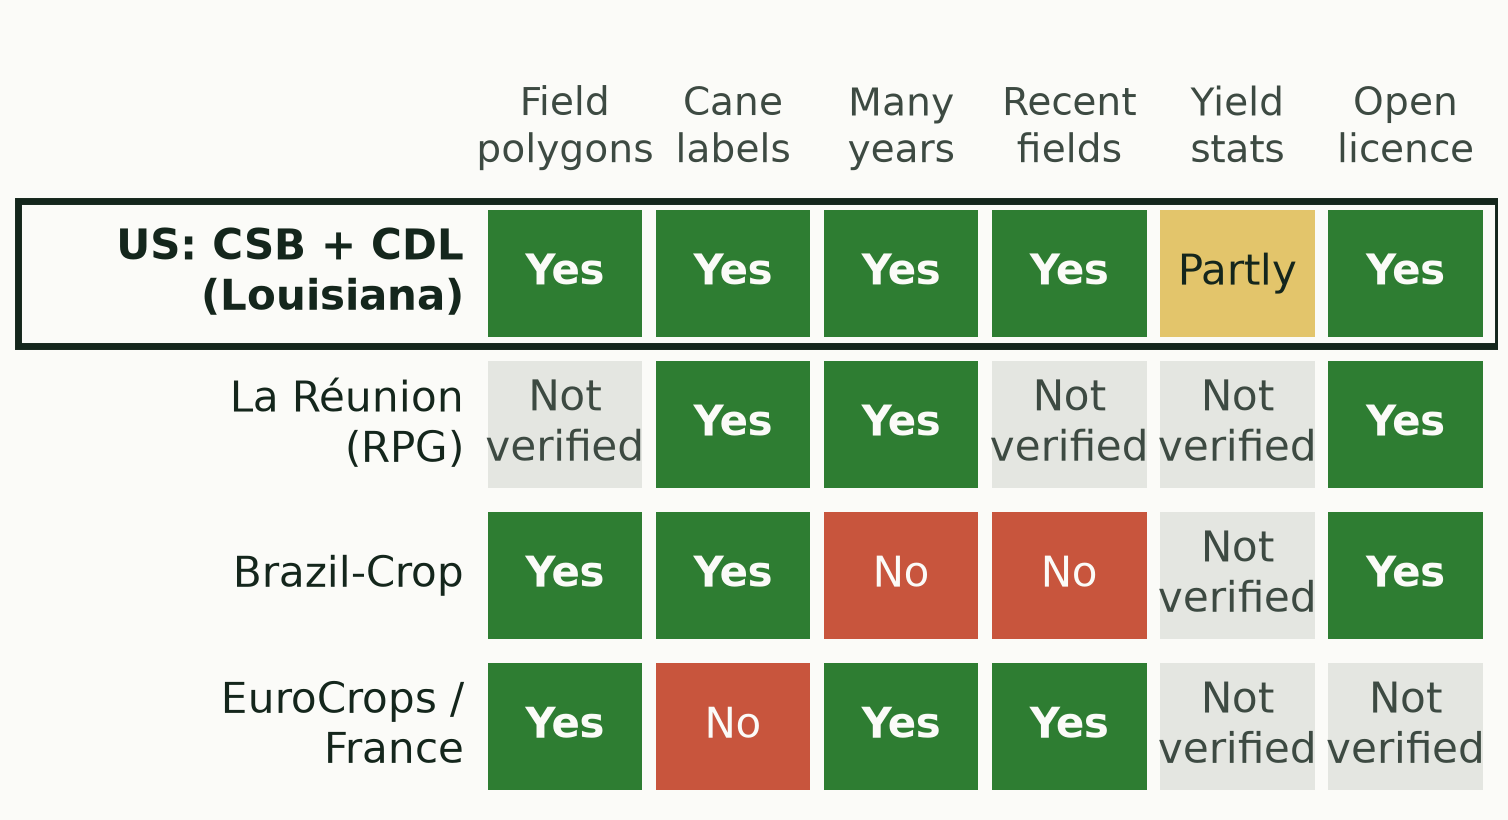
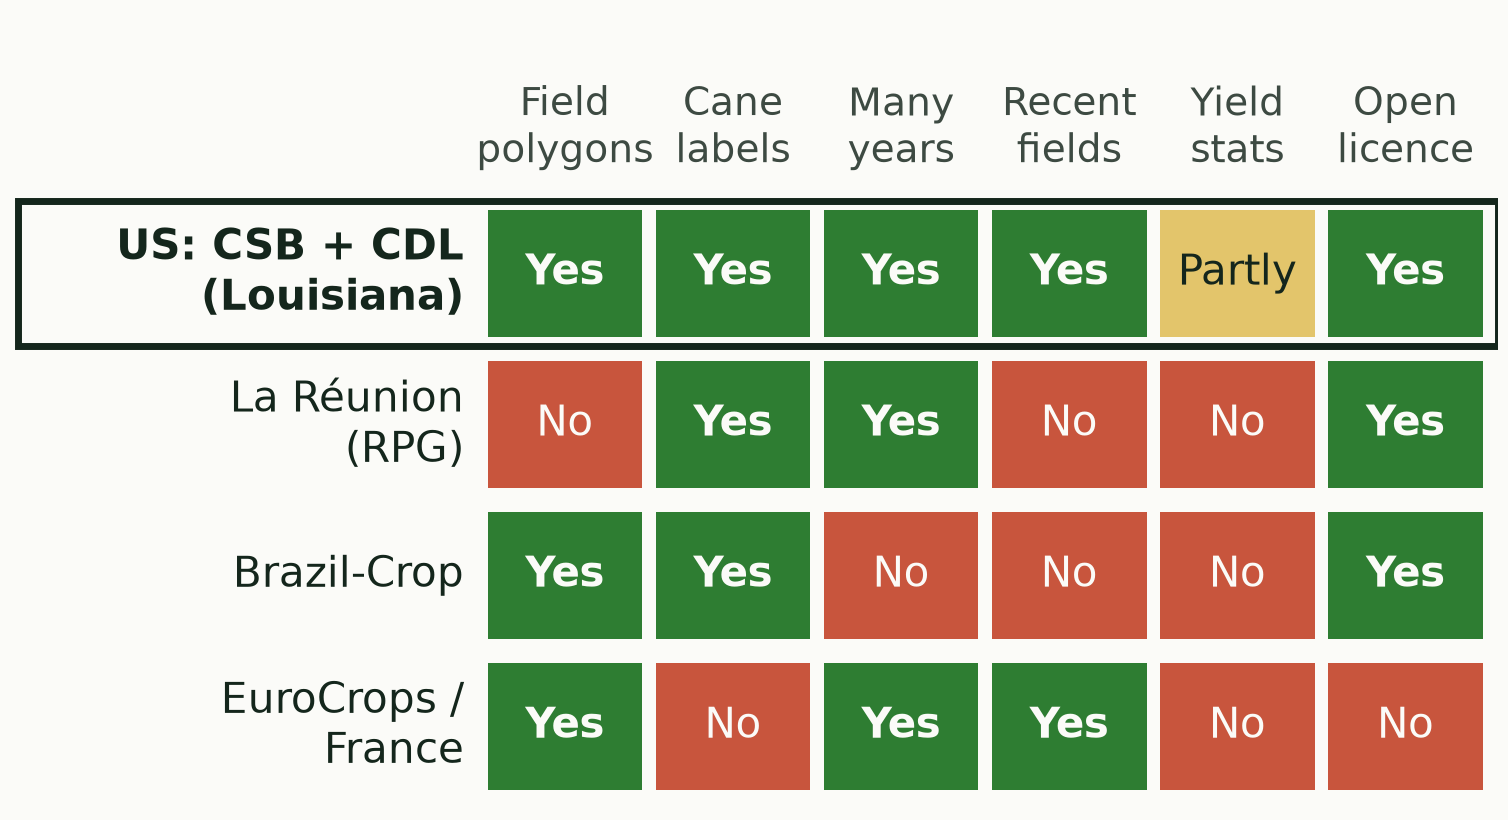
docs(presentation): show unconfirmed matrix cells as No (user decision)
Refs #32

Changed region(s): [[0.6545, 0.4268, 0.9973, 0.9756], [0.3117, 0.4268, 0.4363, 0.6098]]

diff --git a/notebooks/exploration/make_slide_figures.py b/notebooks/exploration/make_slide_figures.py
@@ -40,9 +40,9 @@ print("map fields:", len(win), counts.to_dict())
 needs = ["Field\npolygons", "Cane\nlabels", "Many\nyears", "Recent\nfields", "Yield\nstats", "Open\nlicence"]
 rows = {
     "US: CSB + CDL\n(Louisiana)": ["Yes", "Yes", "Yes", "Yes", "Partly", "Yes"],
-    "La Réunion\n(RPG)":          ["Not\nverified", "Yes", "Yes", "Not\nverified", "Not\nverified", "Yes"],
-    "Brazil-Crop":                ["Yes", "Yes", "No", "No", "Not\nverified", "Yes"],
-    "EuroCrops /\nFrance":        ["Yes", "No", "Yes", "Yes", "Not\nverified", "Not\nverified"],
+    "La Réunion\n(RPG)":          ["No", "Yes", "Yes", "No", "No", "Yes"],
+    "Brazil-Crop":                ["Yes", "Yes", "No", "No", "No", "Yes"],
+    "EuroCrops /\nFrance":        ["Yes", "No", "Yes", "Yes", "No", "No"],
 }
 style = {"Yes": ("#2E7D32", "#FBFBF8"), "Partly": ("#E3C56B", INK), "No": ("#C8553D", "#FBFBF8"),
          "Not\nverified": ("#E4E6E1", MUTED)}
